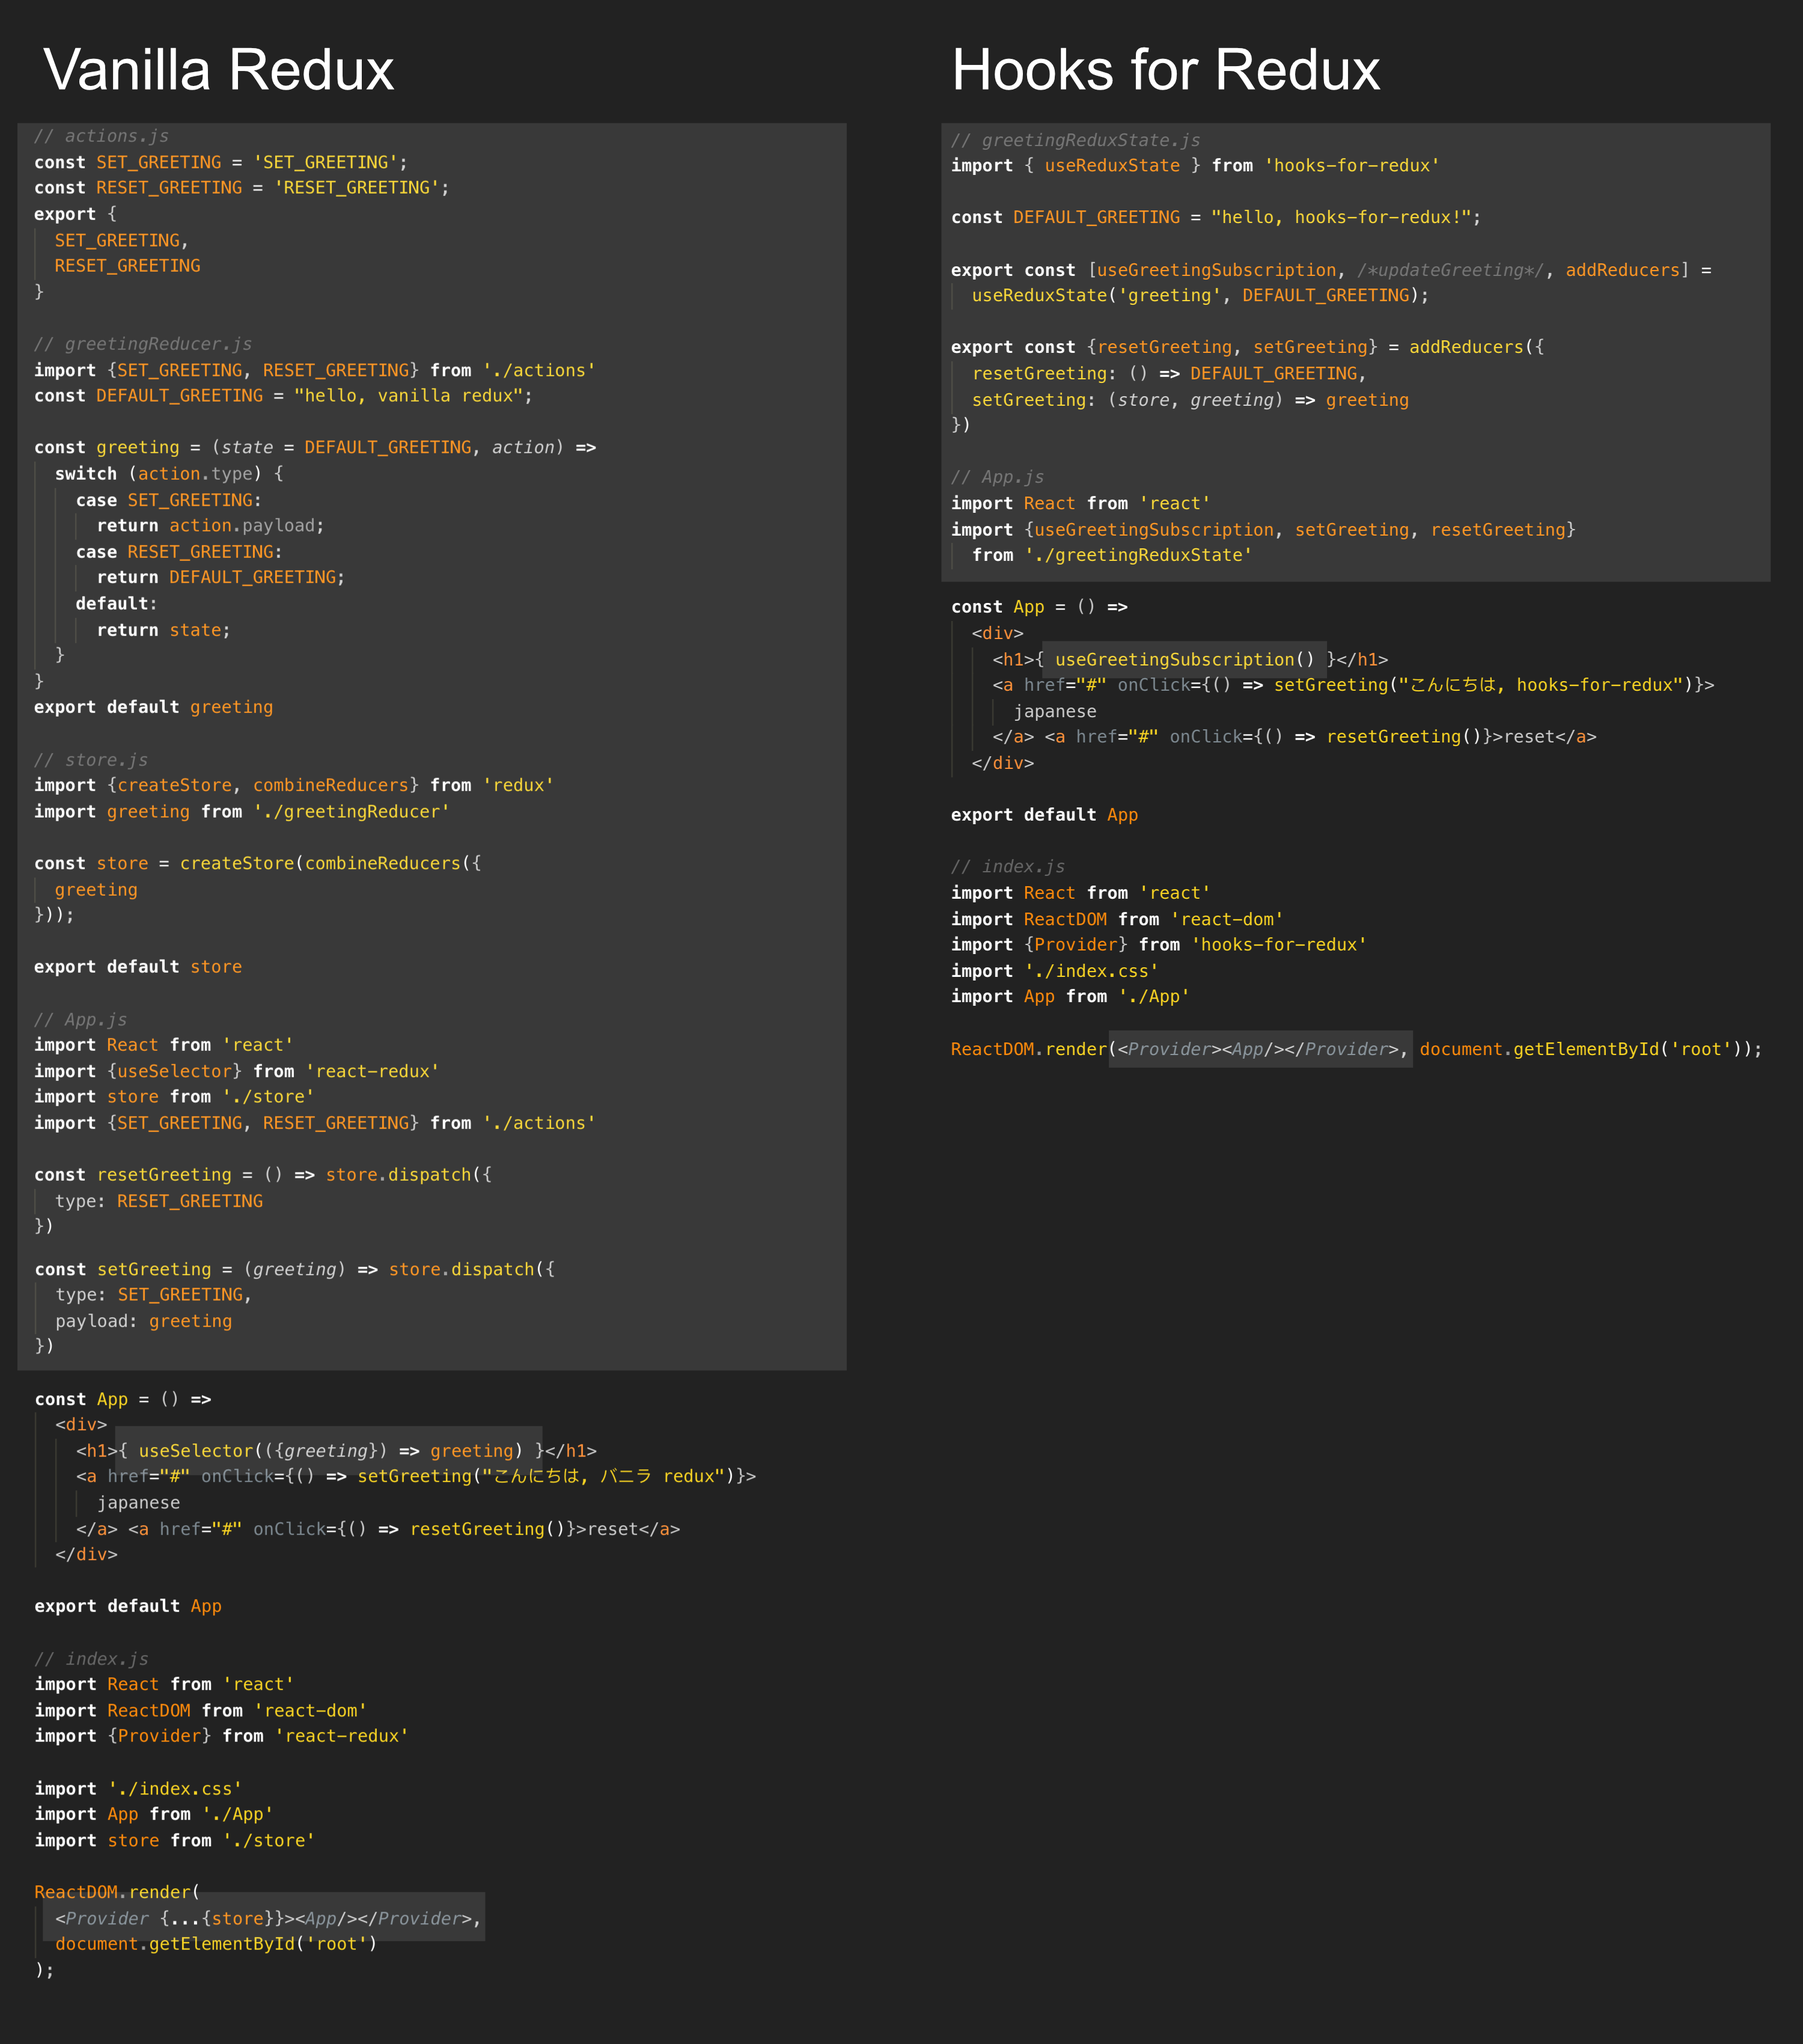
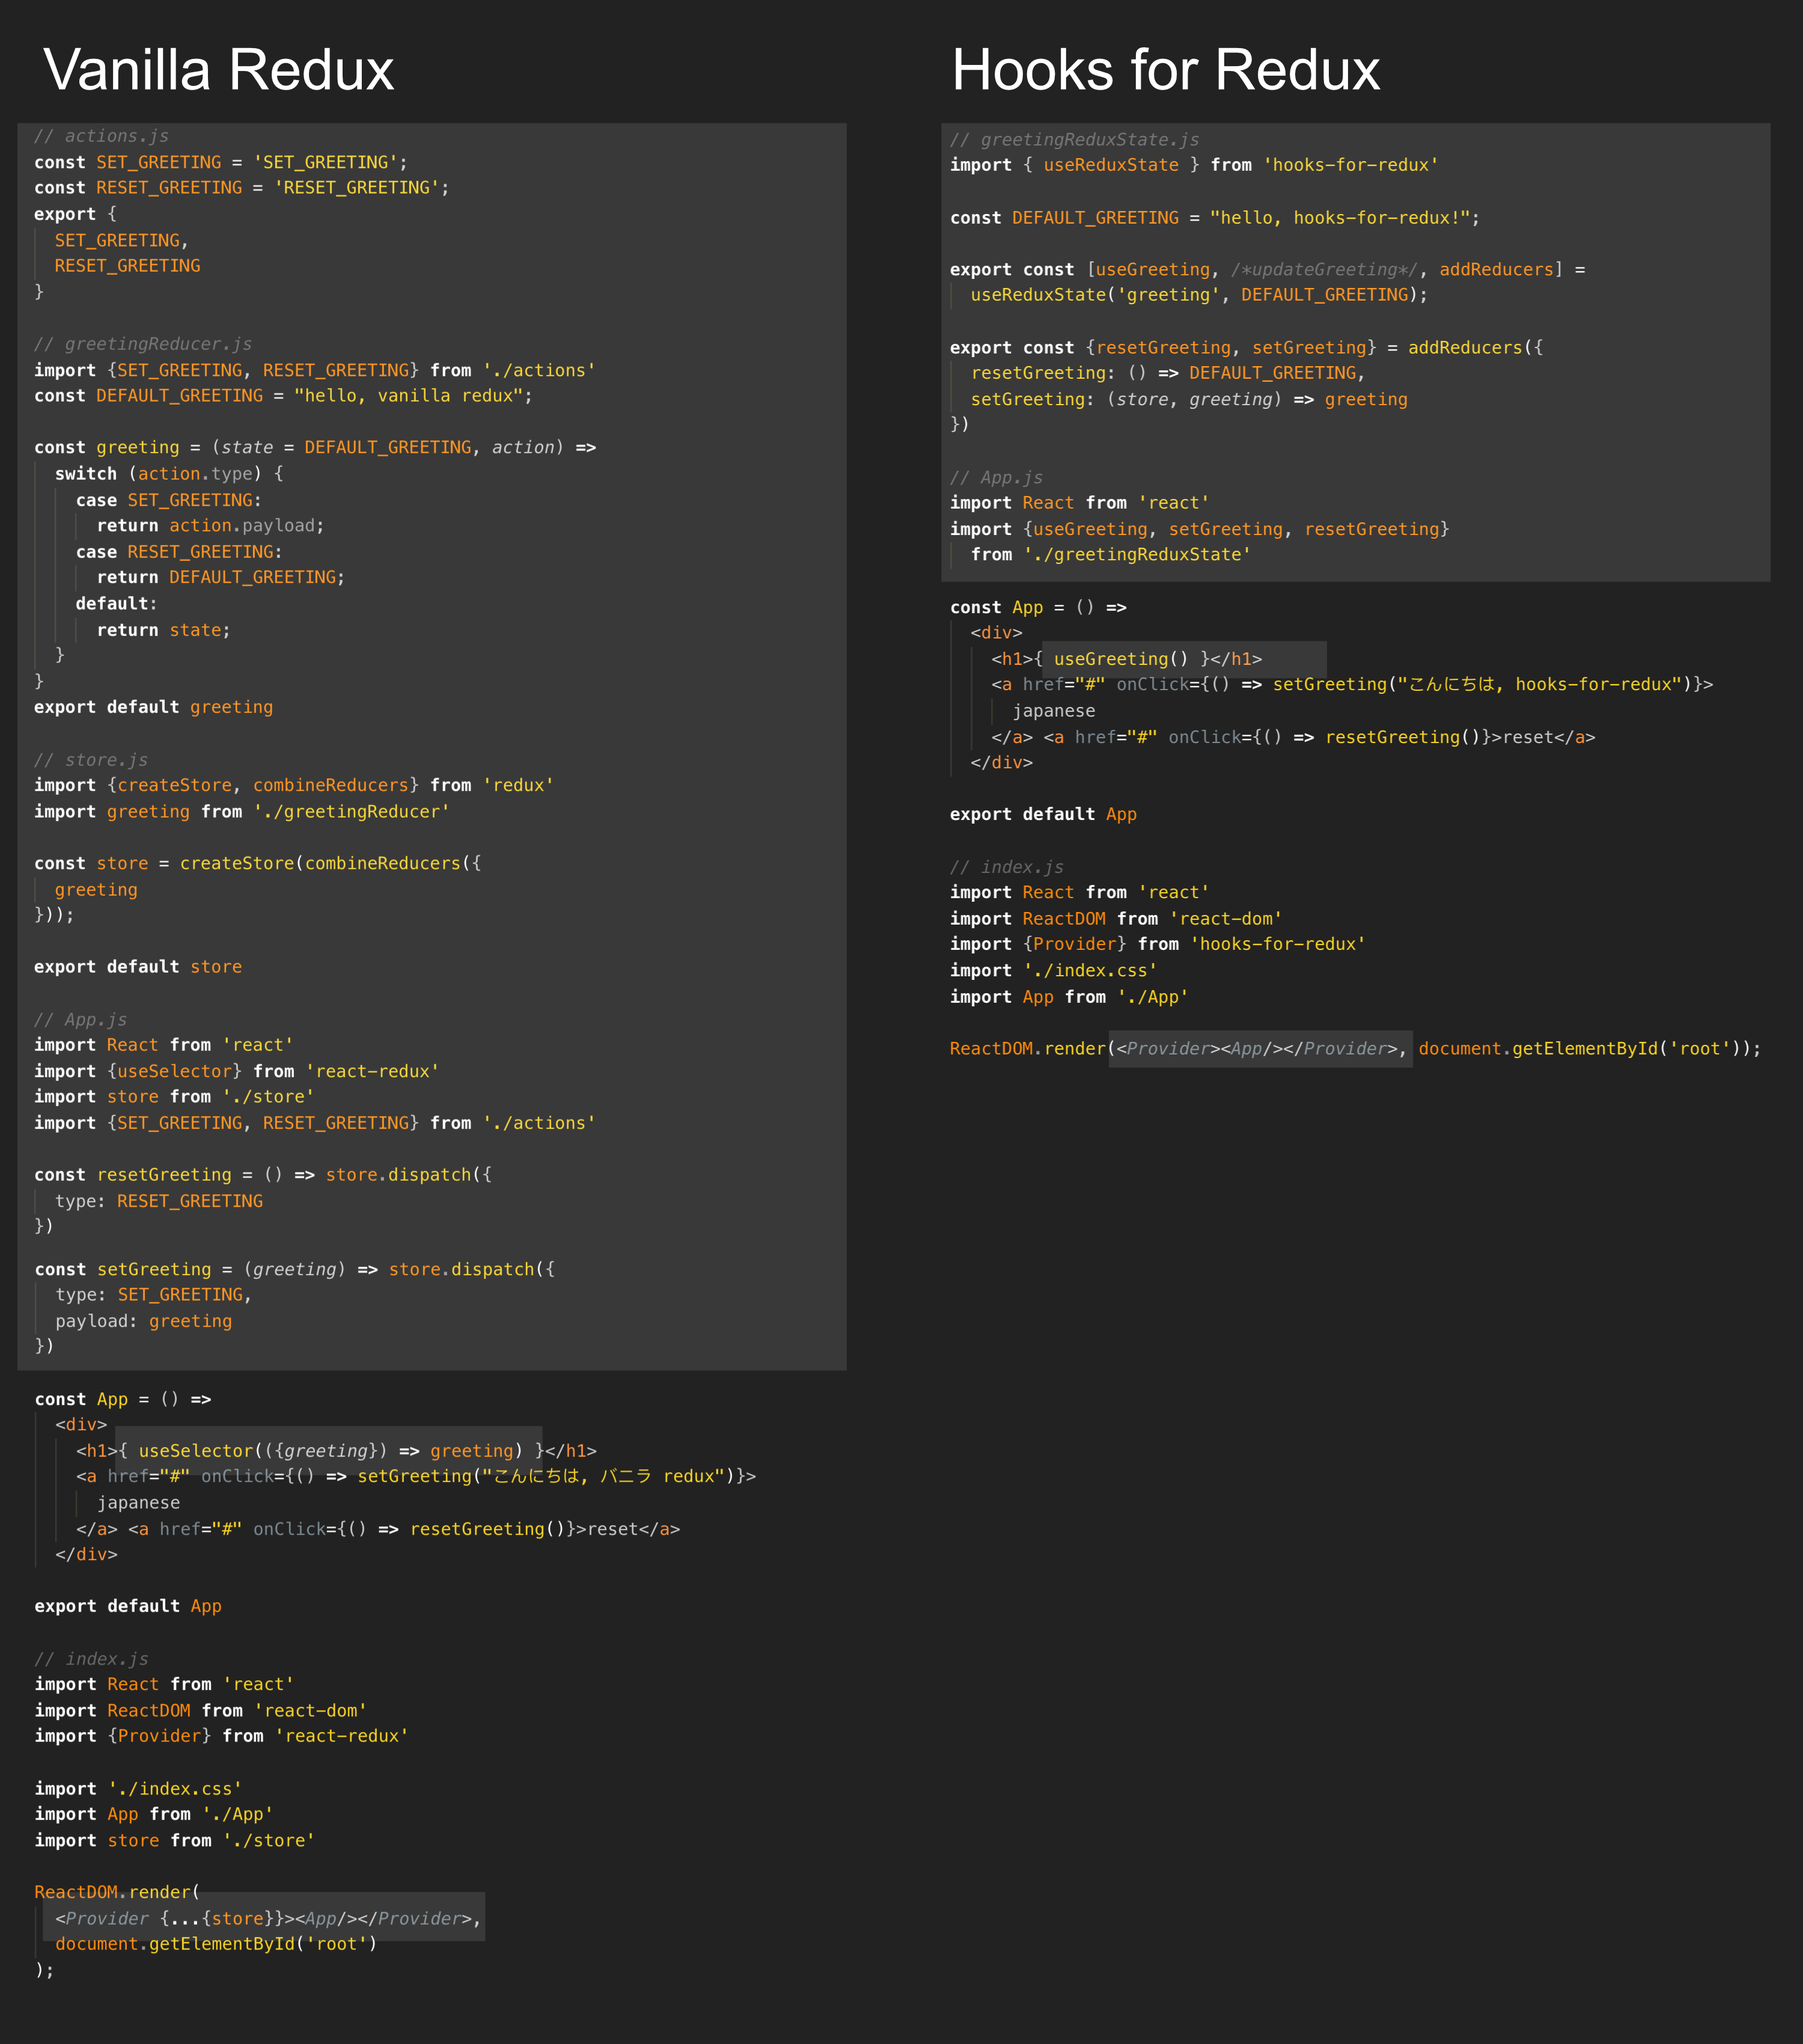
UPDATED README

diff --git a/examples/comparison-hooks-for-redux/README.md b/examples/comparison-hooks-for-redux/README.md
@@ -12,12 +12,13 @@ This example is one of two comparing hooks-for-redux with vanilla redux in a ver
 With hooks-for-redux, you have to write dramatically less code. Here's all the JavaScript source in one place:
 
 ```jsx
+
 // greetingReduxState.js
 import { useReduxState } from 'hooks-for-redux'
 
 const DEFAULT_GREETING = "hello, hooks-for-redux!";
 
-export const [useGreetingSubscription, /*updateGreeting*/, addReducers] =
+export const [useGreeting, /*updateGreeting*/, addReducers] =
   useReduxState('greeting', DEFAULT_GREETING);
 
 export const {resetGreeting, setGreeting} = addReducers({
@@ -27,12 +28,12 @@ export const {resetGreeting, setGreeting} = addReducers({
 
 // App.js
 import React from 'react'
-import {useGreetingSubscription, setGreeting, resetGreeting}
+import {useGreeting, setGreeting, resetGreeting}
   from './greetingReduxState'
 
 const App = () =>
   <div>
-    <h1>{ useGreetingSubscription() }</h1>
+    <h1>{ useGreeting() }</h1>
     <a href="#" onClick={() => setGreeting("こんにちは, hooks-for-redux")}>
       japanese
     </a> <a href="#" onClick={() => resetGreeting()}>reset</a>
@@ -48,4 +49,5 @@ import './index.css'
 import App from './App'
 
 ReactDOM.render(<Provider><App/></Provider>, document.getElementById('root'));
+
 ```
